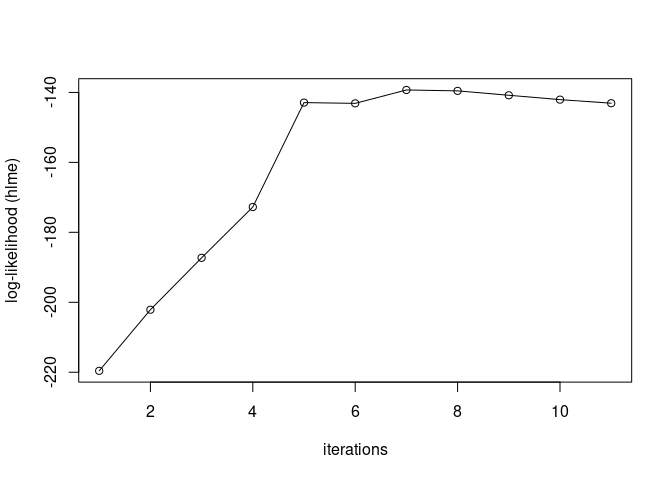
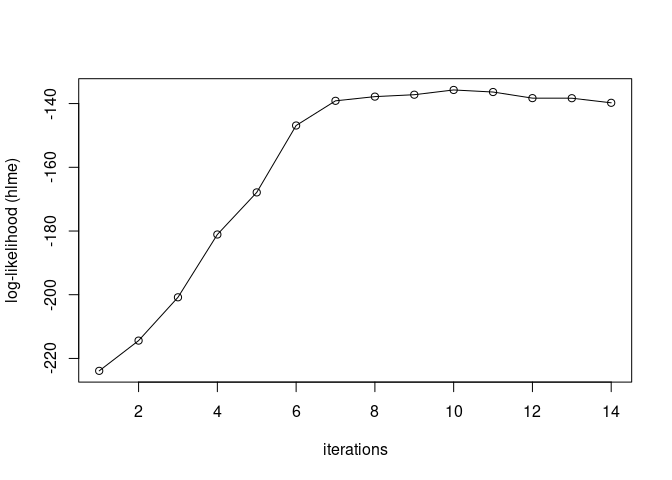
Option to use only past info during the iterations

diff --git a/README.md b/README.md
@@ -91,57 +91,56 @@ these columns:
 
 ``` r
 data_mixedml
-#>    ID time    x1    x2 x3    yf    ym
-#> 1   1    0 10.38 100.6  1 205.9 191.5
-#> 2   1    1    NA 103.5  1    NA    NA
-#> 3   1    2  9.82  97.9  1 196.3 182.3
-#> 4   1    3 11.01  98.2  1 214.3 199.8
-#> 5   1    4  8.89  98.5  1 182.6 169.0
-#> 6   2    0 10.38  97.5  0 100.7  89.4
-#> 7   2    1  9.35  99.3  0    NA    NA
-#> 8   2    2  9.60    NA  0  96.8  86.3
-#> 9   2    3  9.10 102.2  0  96.6  86.4
-#> 10  2    4  9.98 103.8  0 101.8  90.8
-#> 11  3    0 11.08  97.0  1 214.6 237.6
-#> 12  3    1  9.11  97.3  1 185.4 206.4
-#> 13  3    2 10.43  96.0  1 204.5 226.7
-#> 14  3    3  9.14 105.8  1 190.0 212.1
-#> 15  3    4 10.07 102.0  1 202.0 224.6
-#> 16  4    0  9.96  98.8  0  99.2  89.9
-#> 17  4    1 10.43 100.6  0 102.4  93.0
-#> 18  4    2 10.17 101.2  0 101.5  91.9
-#> 19  4    3  9.71 104.9  0 101.0  90.7
-#> 20  4    4 10.39  99.8  0 101.9  92.6
-#> 21  5    0  9.65  99.1  1 194.3 186.4
-#> 22  5    1  9.41  99.6  1 190.9 183.1
-#> 23  5    2 10.63 102.1  1 210.6 202.1
-#> 24  5    3  9.84 100.6  1 197.9 189.9
-#> 25  5    4 10.02  96.3  1 198.4 190.4
-#> 26  6    0  9.26  99.8  0  96.2 109.5
-#> 27  6    1  9.44  97.6  0  96.0 109.1
-#> 28  6    2  9.12  91.2  0  91.2 103.5
-#> 29  6    3  9.47  98.1  0  96.4 109.6
-#> 30  6    4  9.33  98.3  0  95.8 109.0
-#> 31  7    0 10.38 104.5  1 207.9 186.2
-#> 32  7    1  9.68 102.7  1 196.5 175.4
-#> 33  7    2 10.72  99.0  1 210.2 189.3
-#> 34  7    3  9.69  96.1  1 193.4 173.4
-#> 35  7    4 10.11 100.0  1 201.7 180.9
-#> 36  8    0 10.13 103.0  0 102.2 101.0
-#> 37  8    1 10.21 101.2  0 101.7 100.6
-#> 38  8    2  9.26 104.3  0  98.4  96.9
-#> 39  8    3 10.09 100.4  0 100.7  99.6
-#> 40  8    4 11.03  96.0  0 103.1 102.6
-#> 41  9    0 10.36  98.5  1 204.7 197.1
-#> 42  9    1  9.76  97.3  1 195.0 187.7
-#> 43  9    2  9.76 101.0  1 196.8 189.5
-#> 44  9    3 10.92 100.9  1 214.3 206.4
-#> 45  9    4 10.26  96.9  1 202.3 194.8
-#> 46 10    0  9.44 101.2  0  97.8  73.7
-#> 47 10    1  9.84 102.4  0 100.4  76.0
-#> 48 10    2 10.05  98.3  0  99.4  75.7
-#> 49 10    3 10.32 100.5  0 101.9  77.6
-#> 50 10    4 10.19 100.1  0 101.0  76.9
+#>    ID time    x1    x2 x3    yf     yr    ym ym_nonoise
+#> 1   1    0 10.38 100.6  1 206.9 -12.76 194.5      194.2
+#> 2   1    1    NA 103.5  1    NA -13.29    NA         NA
+#> 3   1    2  9.82  97.9  1 197.3 -12.29 184.7      185.0
+#> 4   1    3 11.01  98.2  1 215.3 -12.88 201.8      202.4
+#> 5   1    4  8.89  98.5  1 183.6 -11.89 171.5      171.7
+#> 6   2    0 10.38  97.5  0 101.7  10.97 112.8      112.6
+#> 7   2    1  9.35  99.3  0    NA  11.28    NA         NA
+#> 8   2    2  9.60    NA  0  97.8  11.06 107.3      108.9
+#> 9   2    3  9.10 102.2  0  97.6  11.66 108.6      109.3
+#> 10  2    4  9.98 103.8  0 102.8  11.79 115.1      114.6
+#> 11  3    1  9.11  97.3  1 186.4  11.92 197.6      198.3
+#> 12  3    2 10.43  96.0  1 205.5  12.65 218.5      218.2
+#> 13  3    3  9.14 105.8  1 191.0  12.48 204.3      203.5
+#> 14  3    4 10.07 102.0  1 203.0  12.81 216.1      215.8
+#> 15  4    0  9.96  98.8  0 100.2   3.43 103.1      103.6
+#> 16  4    1 10.43 100.6  0 103.4   3.29 107.1      106.7
+#> 17  4    2 10.17 101.2  0 102.5   3.53 106.8      106.0
+#> 18  4    3  9.71 104.9  0 102.0   4.23 106.3      106.2
+#> 19  4    4 10.39  99.8  0 102.9   3.24 106.2      106.1
+#> 20  5    0  9.65  99.1  1 195.3  -3.75 190.8      191.6
+#> 21  5    1  9.41  99.6  1 191.9  -3.72 187.2      188.2
+#> 22  5    2 10.63 102.1  1 211.6  -3.97 207.5      207.6
+#> 23  5    3  9.84 100.6  1 198.9  -3.81 195.1      195.1
+#> 24  5    4 10.02  96.3  1 199.4  -3.74 194.8      195.6
+#> 25  6    0  9.26  99.8  0  97.2  16.39 113.9      113.6
+#> 26  6    1  9.44  97.6  0  97.0  16.24 113.7      113.2
+#> 27  6    2  9.12  91.2  0  92.2  15.33 108.3      107.5
+#> 28  6    3  9.47  98.1  0  97.4  16.31 114.1      113.7
+#> 29  6    4  9.33  98.3  0  96.8  16.26 112.6      113.1
+#> 30  7    0 10.38 104.5  1 208.9  -6.09 202.7      202.8
+#> 31  7    1  9.68 102.7  1 197.5  -5.55 192.6      192.0
+#> 32  7    2 10.72  99.0  1 211.2  -6.52 204.5      204.7
+#> 33  7    3  9.69  96.1  1 194.4  -5.73 189.8      188.7
+#> 34  7    4 10.11 100.0  1 202.7  -5.99 196.1      196.7
+#> 35  8    0 10.13 103.0  0 103.2  -7.37  96.1       95.8
+#> 36  8    1 10.21 101.2  0 102.7  -7.30  94.6       95.4
+#> 37  8    2  9.26 104.3  0  99.4  -7.24  92.9       92.2
+#> 38  8    3 10.09 100.4  0 101.7  -7.23  94.8       94.4
+#> 39  8    4 11.03  96.0  0 104.1  -7.22  96.6       96.9
+#> 40  9    0 10.36  98.5  1 205.7   2.49 208.0      208.2
+#> 41  9    1  9.76  97.3  1 196.0   2.51 198.4      198.5
+#> 42  9    2  9.76 101.0  1 197.8   2.64 201.2      200.5
+#> 43  9    3 10.92 100.9  1 215.3   2.51 217.7      217.8
+#> 44  9    4 10.26  96.9  1 203.3   2.44 205.5      205.7
+#> 45 10    0  9.44 101.2  0  98.8 -21.28  77.2       77.5
+#> 46 10    1  9.84 102.4  0 101.4 -21.84  79.4       79.6
+#> 47 10    2 10.05  98.3  0 100.4 -21.58  77.4       78.8
+#> 48 10    3 10.32 100.5  0 102.9 -22.11  81.6       80.8
+#> 49 10    4 10.19 100.1  0 102.0 -21.93  80.2       80.1
 ```
 
 # 4 General principle
@@ -205,51 +204,64 @@ model_reservoir <- reservoir_mixedml(
 #>          2 incomplete cases for the ML models
 #>          3 incomplete cases for the HLME model
 #>          2 NA values in target
-#>          => 3/50 observations could not be used to train (either no fixed preds, random preds or target).
+#>          => 3/49 observations could not be used to train (either no fixed preds, random preds or target).
 #> step#0
 #>  fitting fixed effects...
 #>  fitting random effects...
-#>  MSE = 482.6
+#>  MSE = 851
 #> step#1
 #>  fitting fixed effects...
 #>  fitting random effects...
-#>  MSE = 162.7
+#>  MSE = 437.8
 #> step#2
 #>  fitting fixed effects...
 #>  fitting random effects...
-#>  MSE = 67.37
+#>  MSE = 180.9
 #> step#3
 #>  fitting fixed effects...
 #>  fitting random effects...
-#>  MSE = 28.61
+#>  MSE = 55.87
 #> step#4
 #>  fitting fixed effects...
 #>  fitting random effects...
-#>  MSE = 4.964
+#>  MSE = 24.91
 #> step#5
 #>  fitting fixed effects...
 #>  fitting random effects...
-#>  MSE = 5.608
+#>  MSE = 6.633
 #> step#6
 #>  fitting fixed effects...
 #>  fitting random effects...
-#>  MSE = 4.283
+#>  MSE = 3.618
 #> step#7
 #>  fitting fixed effects...
 #>  fitting random effects...
-#>  MSE = 4.149
+#>  MSE = 2.875
 #> step#8
 #>  fitting fixed effects...
 #>  fitting random effects...
-#>  MSE = 4.37
+#>  MSE = 2.454
 #> step#9
 #>  fitting fixed effects...
 #>  fitting random effects...
-#>  MSE = 4.713
+#>  MSE = 1.933
 #> step#10
 #>  fitting fixed effects...
 #>  fitting random effects...
-#>  MSE = 5.086
+#>  MSE = 1.908
+#> step#11
+#>  fitting fixed effects...
+#>  fitting random effects...
+#>  MSE = 2.159
+#> step#12
+#>  fitting fixed effects...
+#>  fitting random effects...
+#>  MSE = 2.07
+#> step#13
+#>  fitting fixed effects...
+#>  fitting random effects...
+#>  MSE = 2.259
+#> Final convergence of HLME with strict convergence criterions.
 ```
 
 The resulting model will be used in the remaining sections.
@@ -264,14 +276,15 @@ model_reservoir$random_model
 #>      fitted by maximum likelihood method 
 #>  
 #> hlme(fixed = ym ~ 1, random = ~x1 + x2, subject = "ID", idiag = TRUE, 
-#>     cor = NULL, data = data, convB = 1e-04, convL = 1e-04, convG = 1e-04, 
+#>     cor = NULL, data = data, convB = hlme_controls_final$convB, 
+#>     convL = hlme_controls_final$convL, convG = hlme_controls_final$convG, 
 #>     maxiter = 50, na.action = 1, posfix = 1, verbose = FALSE, 
 #>     var.time = "time", nproc = 1)
 #>  
 #> Statistical Model: 
 #>      Dataset: data 
 #>      Number of subjects: 10 
-#>      Number of observations: 47 
+#>      Number of observations: 46 
 #>      Number of observations deleted: 3 
 #>      Number of latent classes: 1 
 #>      Number of parameters: 5  
@@ -279,15 +292,15 @@ model_reservoir$random_model
 #>  
 #> Iteration process: 
 #>      Convergence criteria satisfied 
-#>      Number of iterations:  8 
-#>      Convergence criteria: parameters= 1.8e-07 
-#>                          : likelihood= 1.3e-08 
-#>                          : second derivatives= 6.8e-10 
+#>      Number of iterations:  12 
+#>      Convergence criteria: parameters= 8.8e-05 
+#>                          : likelihood= 7.3e-06 
+#>                          : second derivatives= 3e-11 
 #>  
 #> Goodness-of-fit statistics: 
-#>      maximum log-likelihood: -139.56  
-#>      AIC: 287.12  
-#>      BIC: 288.33  
+#>      maximum log-likelihood: -124.06  
+#>      AIC: 256.12  
+#>      BIC: 257.33  
 #>  
 #> 
 ```
@@ -295,7 +308,7 @@ model_reservoir$random_model
 ``` r
 # (this model uses reticulate so it not very convenient as an example…)
 model_reservoir$fixed_model
-#> <reservoir_ensemble.JoblibReservoirEnsemble object at 0x724820771940>
+#> <reservoir_ensemble.JoblibReservoirEnsemble object at 0x7092d4375940>
 ```
 
 Also a `call` attribute exists, meaning one can trained the model with
@@ -412,8 +425,9 @@ plot_last_iter(model, subject_nb_or_list, ylog = FALSE)
 Prediction plot of the model.
 
 ``` r
-plot_last_iter(model = model_reservoir, subject_nb_or_list = 3)
-#> Subjects selected randomly: use set.seed to change the selection.
+plot_last_iter(model = model_reservoir, subject_nb_or_list = c(1, 2, 3, 4, 5))
+#> Warning: Removed 5 rows containing missing values or values outside the scale range
+#> (`geom_point()`).
 ```
 
 <img src="man/figures/README-unnamed-chunk-18-1.png" width="100%" />
@@ -429,7 +443,7 @@ backup <- load_backup(
 
 ``` r
 backup$fixed_model
-#> <reservoir_ensemble.JoblibReservoirEnsemble object at 0x7247aa06df90>
+#> <reservoir_ensemble.JoblibReservoirEnsemble object at 0x70925dc9dd10>
 ```
 
 ``` r
@@ -438,14 +452,14 @@ backup$random_model
 #>      fitted by maximum likelihood method 
 #>  
 #> hlme(fixed = ym ~ 1, random = ~x1 + x2, subject = "ID", idiag = TRUE, 
-#>     cor = NULL, data = data, convB = 1e-04, convL = 1e-04, convG = 1e-04, 
+#>     cor = NULL, data = data, convB = 0.01, convL = 0.01, convG = 0.01, 
 #>     maxiter = 50, na.action = 1, posfix = 1, verbose = FALSE, 
 #>     var.time = "time", nproc = 1)
 #>  
 #> Statistical Model: 
 #>      Dataset: data 
 #>      Number of subjects: 10 
-#>      Number of observations: 47 
+#>      Number of observations: 46 
 #>      Number of observations deleted: 3 
 #>      Number of latent classes: 1 
 #>      Number of parameters: 5  
@@ -453,26 +467,26 @@ backup$random_model
 #>  
 #> Iteration process: 
 #>      Convergence criteria satisfied 
-#>      Number of iterations:  8 
-#>      Convergence criteria: parameters= 1.8e-07 
-#>                          : likelihood= 1.3e-08 
-#>                          : second derivatives= 6.8e-10 
+#>      Number of iterations:  6 
+#>      Convergence criteria: parameters= 0.00021 
+#>                          : likelihood= 8.9e-07 
+#>                          : second derivatives= 1.3e-08 
 #>  
 #> Goodness-of-fit statistics: 
-#>      maximum log-likelihood: -139.56  
-#>      AIC: 287.12  
-#>      BIC: 288.33  
+#>      maximum log-likelihood: -137.82  
+#>      AIC: 283.64  
+#>      BIC: 284.85  
 #>  
 #> 
 ```
 
 ``` r
 predict(backup, data_mixedml)
-#>  [1] 208.9    NA 377.3 397.1 370.3  74.7 146.8    NA 153.8 162.4 210.6 411.3
-#> [13] 427.4 421.7 429.9  69.6 163.1 161.6 160.6 162.9 198.0 378.6 402.7 388.2
-#> [25] 386.9  62.6 169.4 161.4 170.1 169.8 210.3 376.9 386.1 365.6 382.4  75.4
-#> [37] 167.4 163.9 168.4 170.1 207.7 382.6 394.5 409.3 393.5  64.5 140.9 141.7
-#> [49] 147.4 144.3
+#>  [1] 197.2    NA 370.1 392.3 357.8  68.6 168.4    NA 175.4 187.9 181.4 400.0
+#> [13] 395.9 410.7  63.5 176.8 176.4 176.2 178.3 186.5 372.9 401.1 384.8 383.4
+#> [25]  58.4 175.4 168.7 175.7 174.9 199.1 383.3 396.1 372.0 388.9  70.3 163.4
+#> [37] 159.9 165.2 167.6 195.3 382.6 393.3 413.4 395.4  60.9 144.6 146.6 151.7
+#> [49] 148.9
 ```
 
 ``` r
